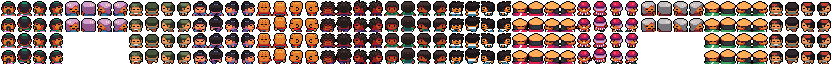
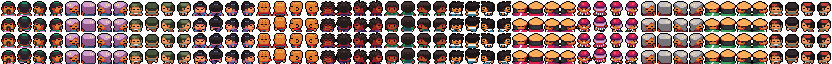
watch page: Mdm Tan and Mak Esah no longer blink as they walk (their sprite's blank walk steps are filled)

diff --git a/test/people-sprites.test.ts b/test/people-sprites.test.ts
@@ -1,0 +1,58 @@
+import { readFileSync } from 'node:fs';
+import { inflateSync } from 'node:zlib';
+import { describe, expect, it } from 'vitest';
+import { PEOPLE_ORDER } from '../src/watch/client/decor.ts';
+
+/** The alpha of each pixel of an 8-bit RGBA, non-interlaced PNG. */
+function alphaOf(path: string): { w: number; h: number; a: (x: number, y: number) => number } {
+  const data = readFileSync(path);
+  let pos = 8;
+  let w = 0, h = 0;
+  const idat: Buffer[] = [];
+  while (pos < data.length) {
+    const len = data.readUInt32BE(pos);
+    const type = data.toString('latin1', pos + 4, pos + 8);
+    const body = data.subarray(pos + 8, pos + 8 + len);
+    if (type === 'IHDR') {
+      w = body.readUInt32BE(0);
+      h = body.readUInt32BE(4);
+      expect([body[8], body[9], body[12]]).toEqual([8, 6, 0]);
+    } else if (type === 'IDAT') idat.push(body);
+    pos += 12 + len;
+  }
+  const raw = inflateSync(Buffer.concat(idat));
+  const stride = w * 4;
+  const rows: Uint8Array[] = [];
+  let prev = new Uint8Array(stride);
+  for (let y = 0, i = 0; y < h; y++, i += stride + 1) {
+    const f = raw[i]!;
+    const line = Uint8Array.from(raw.subarray(i + 1, i + 1 + stride));
+    for (let x = 0; x < stride; x++) {
+      const a = x >= 4 ? line[x - 4]! : 0, b = prev[x]!, c = x >= 4 ? prev[x - 4]! : 0;
+      const p = a + b - c, pa = Math.abs(p - a), pb = Math.abs(p - b), pc = Math.abs(p - c);
+      const add = f === 1 ? a : f === 2 ? b : f === 3 ? (a + b) >> 1 : f === 4 ? (pa <= pb && pa <= pc ? a : pb <= pc ? b : c) : 0;
+      line[x] = (line[x]! + add) & 255;
+    }
+    rows.push(line);
+    prev = line;
+  }
+  return { w, h, a: (x, y) => rows[y]![x * 4 + 3]! };
+}
+
+describe('the residents walk without blinking', () => {
+  it('every resident has a drawn frame for each step of the walk, in each direction', () => {
+    const png = alphaOf('assets/art/ninja-adventure/people.png');
+    expect(png.w).toBe(64 * PEOPLE_ORDER.length);
+    const empty: string[] = [];
+    PEOPLE_ORDER.forEach((id, i) => {
+      for (let step = 0; step < png.h / 16; step++) {
+        for (let dir = 0; dir < 4; dir++) {
+          let n = 0;
+          for (let y = step * 16; y < step * 16 + 16; y++) for (let x = i * 64 + dir * 16; x < i * 64 + dir * 16 + 16; x++) if (png.a(x, y) > 0) n++;
+          if (n < 50) empty.push(`${id} step ${step} direction ${dir}`);
+        }
+      }
+    });
+    expect(empty).toEqual([]);
+  });
+});

diff --git a/scripts/art/build_art.py b/scripts/art/build_art.py
@@ -704,6 +704,10 @@ def people_sheet(pack):
             im = recolour(im, HAIR[n])
         if i in LOOKS:
             im = recolour(im, LOOKS[i])
+        # Some characters (4) walk in two steps, not four: repeat them, or the
+        # walker vanishes for half of every step on the page.
+        if im.crop((0, 32, 64, 64)).getbbox() is None:
+            im.paste(im.crop((0, 0, 64, 32)), (0, 32))
         sheet.paste(im, (64 * i, 0))
     return sheet
 

diff --git a/CHANGELOG.md b/CHANGELOG.md
@@ -4,6 +4,11 @@ Newest first. One line per change, in plain English. Each release says how a
 town that is already living picks it up ("Living town"), because the town is
 never reset (see [docs/design/upgrades.md](docs/design/upgrades.md)).
 
+## Unreleased
+
+- **No more blinking on the watch page:** Mdm Tan and Mak Esah vanished for half of every step as they walked. Their sprite (one pack character) has two walking steps, not four, and the missing two were blank; they now repeat the two.
+- **Living town:** nothing to upgrade; the page shows it on the next load.
+
 ## 0.24.2 (2026-10-26): the lorry every day until noon
 
 - **Pak Osman comes every day, Sundays too, and stays the first half of the day:** about half past six to about noon, not an hour and a half, so anyone busy first thing can still meet the lorry. His horn now says what he's buying as well as what he's brought ("…and he's buying fish and vegetables").
